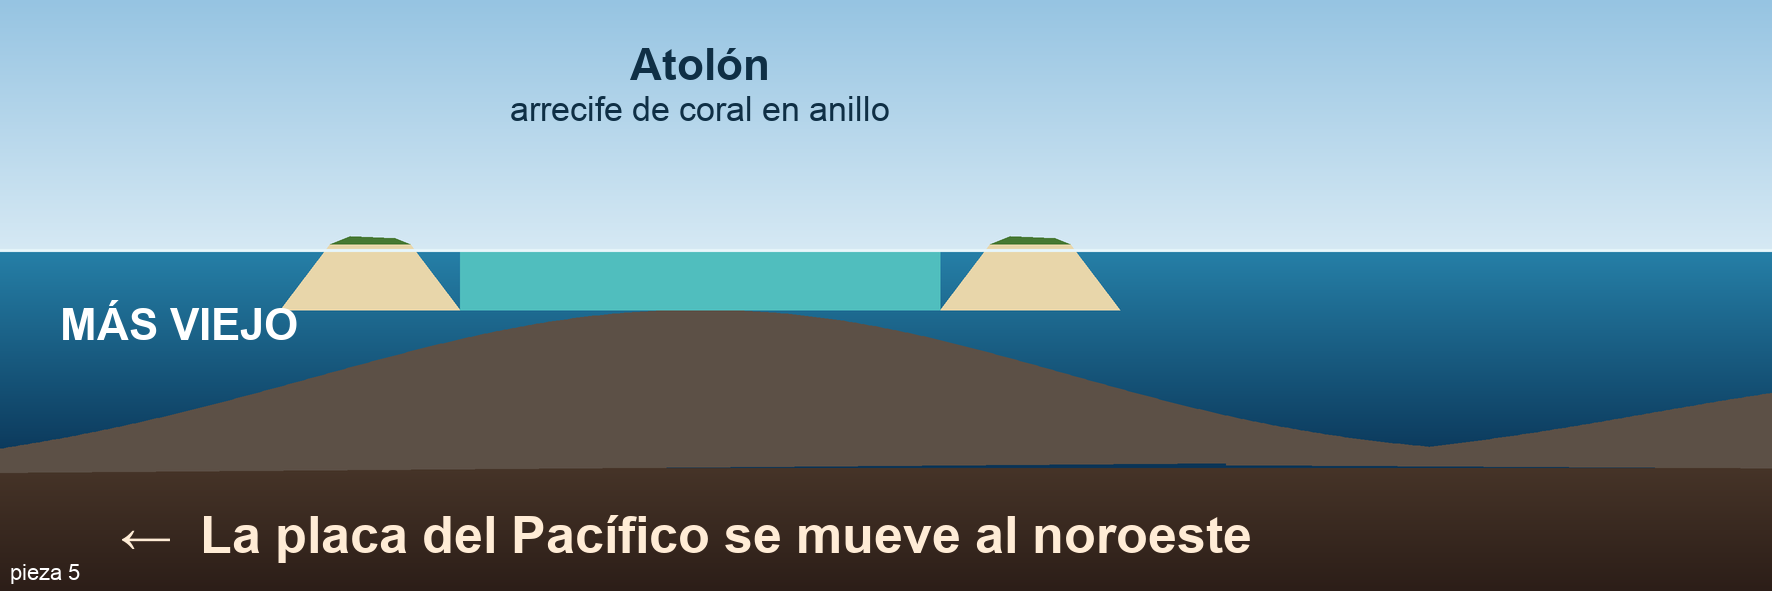
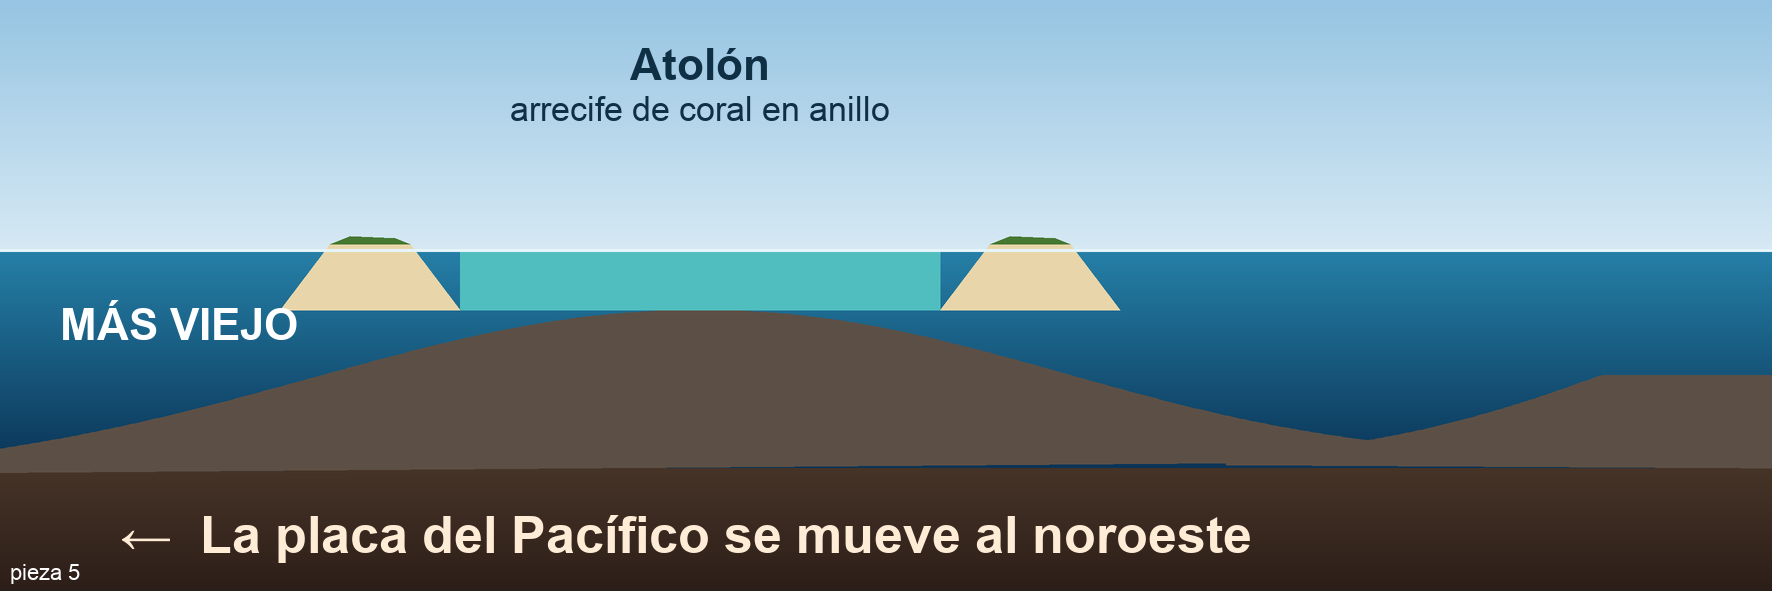
[Claude] Monte submarino con cima plana de verdad (revisión de Codex)

Changed region(s): [[0.776, 0.6091, 1.0, 0.7614]]

diff --git a/dibujo/dibujo.py b/dibujo/dibujo.py
@@ -35,7 +35,7 @@ for cx in (700*S-330*S,700*S+330*S):
     d.polygon([(cx-40*S,MAR-6*S),(cx-20*S,MAR-14*S),(cx+25*S,MAR-12*S),(cx+40*S,MAR-6*S)],fill=(70,120,50))
 d.rectangle([700*S-240*S,MAR+2*S,700*S+240*S,MAR+60*S],fill=(80,190,190))   # laguna turquesa
 # 2 guyot: cima plana bajo el mar
-g=volcan(2000*S,430*S,MAR+125*S); g=[(x,max(y,MAR+125*S)) for x,y in g]; poly(g,(92,80,70))
+g=volcan(2000*S,430*S,MAR+20*S); g=[(x,max(y,MAR+125*S)) for x,y in g]; poly(g,(92,80,70))
 # 3 isla erosionada: verde con valles y tierra roja
 e=volcan(3350*S,470*S,MAR-120*S,rug=34,seed=1.3); poly(e,(88,76,66))
 dent=[(x,y) for x,y in e if y<MAR]
